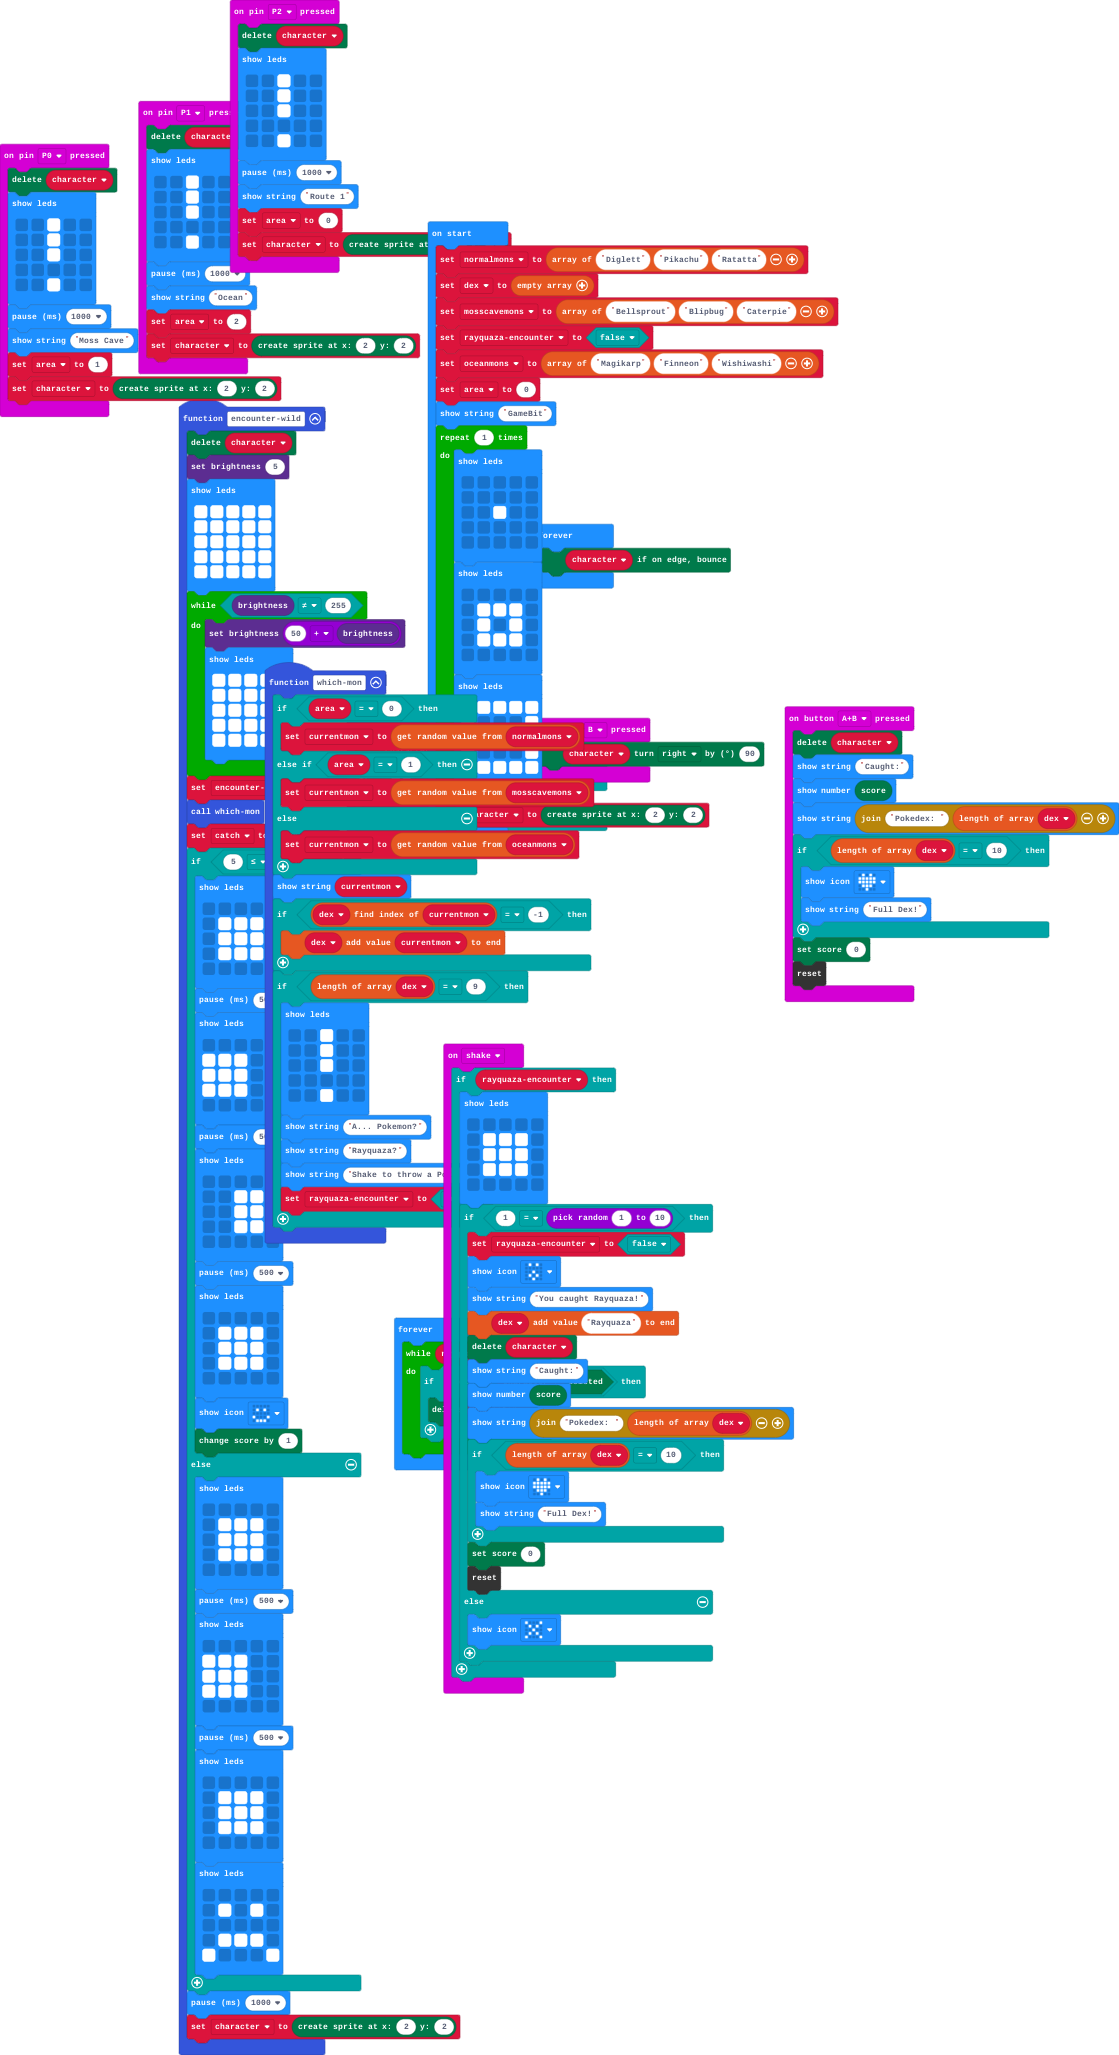
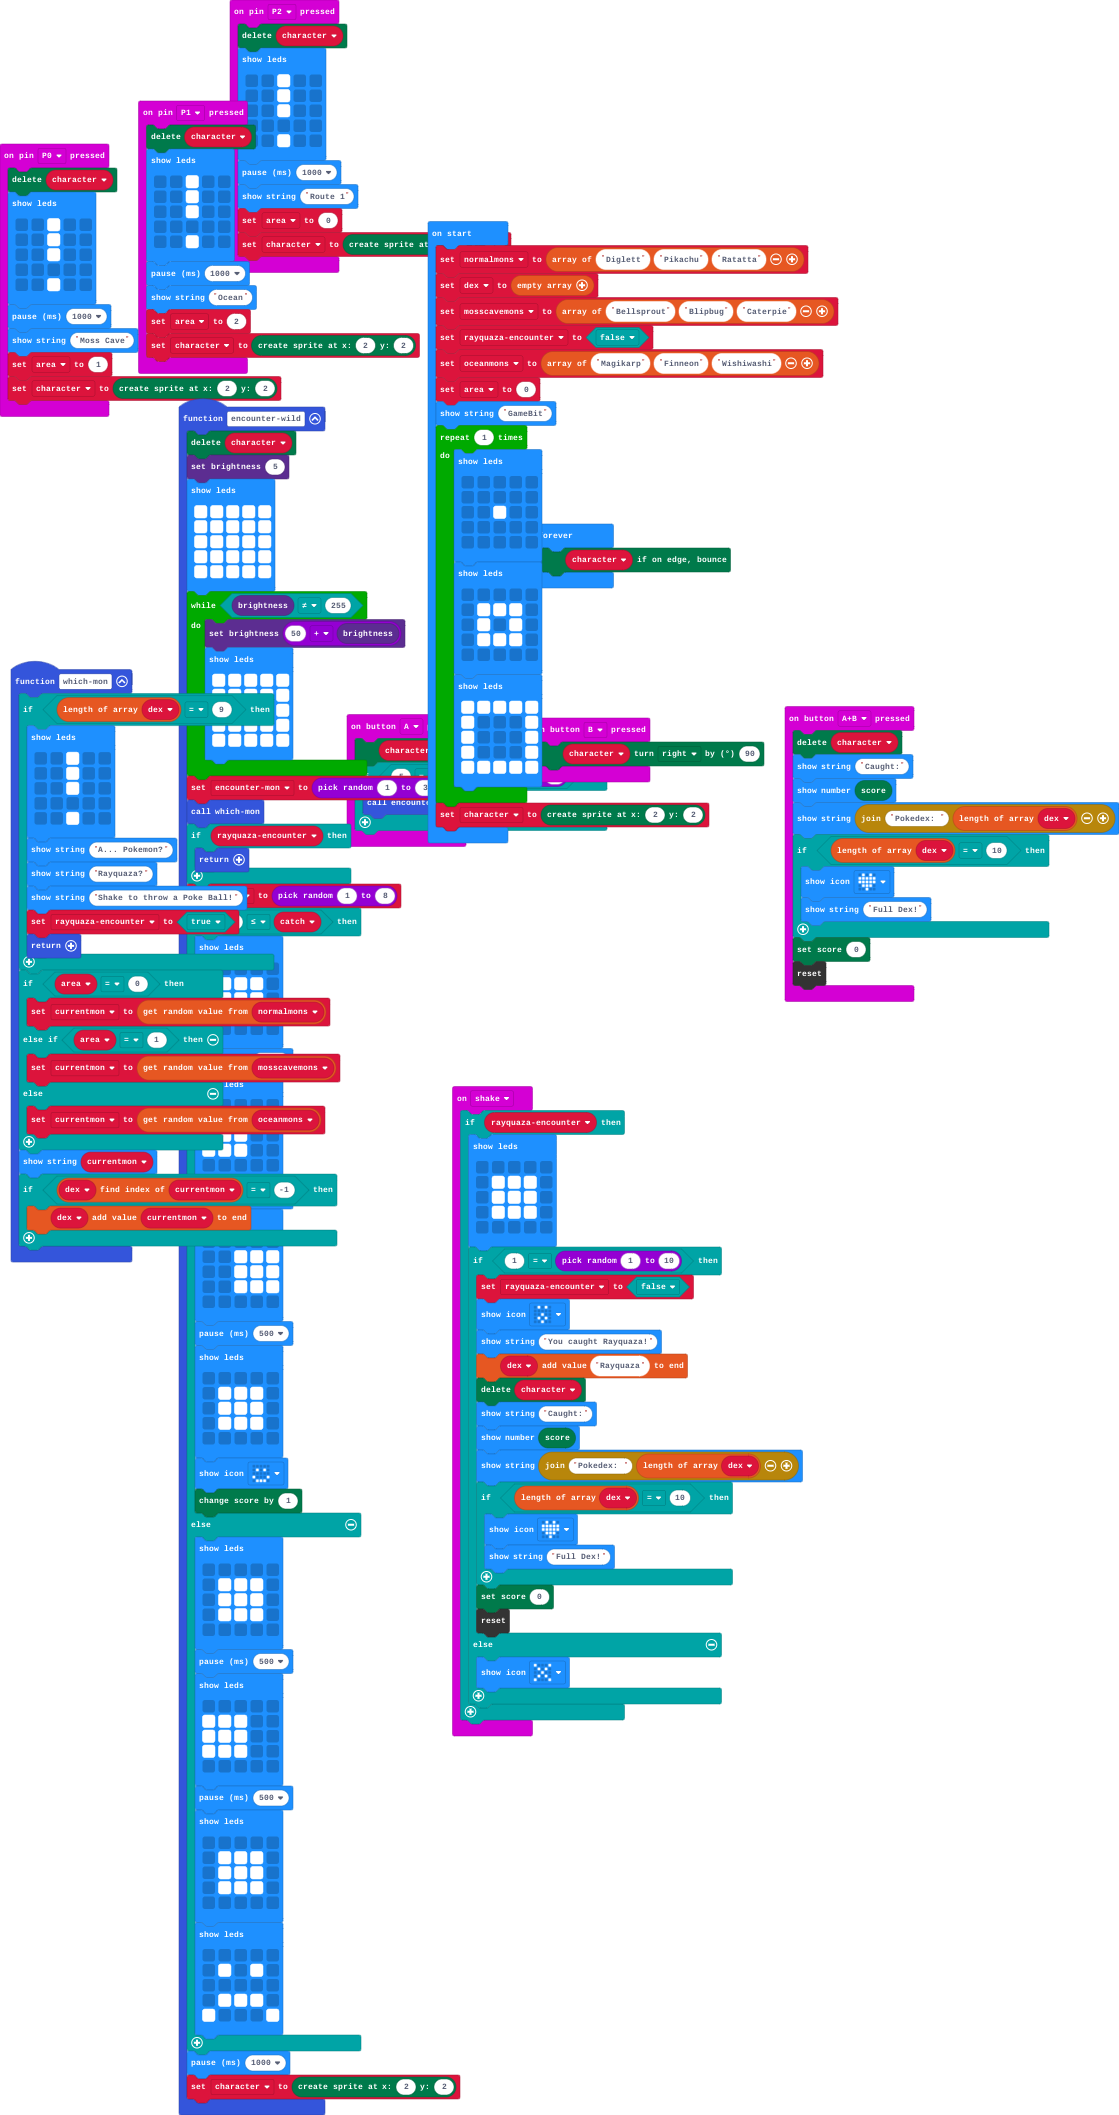
Generally improve the game

Changed region(s): [[0.0, 0.0, 1.0, 0.9966]]

diff --git a/main.ts b/main.ts
@@ -1,15 +1,4 @@
 function whichmon () {
-    if (area == 0) {
-        currentmon = normalmons._pickRandom()
-    } else if (area == 1) {
-        currentmon = mosscavemons._pickRandom()
-    } else {
-        currentmon = oceanmons._pickRandom()
-    }
-    basic.showString("" + (currentmon))
-    if (dex.indexOf(currentmon) == -1) {
-        dex.push(currentmon)
-    }
     if (dex.length == 9) {
         basic.showLeds(`
             . . # . .
@@ -22,6 +11,18 @@ function whichmon () {
         basic.showString("Rayquaza?")
         basic.showString("Shake to throw a Poke Ball!")
         rayquazaencounter = true
+        return
+    }
+    if (area == 0) {
+        currentmon = normalmons._pickRandom()
+    } else if (area == 1) {
+        currentmon = mosscavemons._pickRandom()
+    } else {
+        currentmon = oceanmons._pickRandom()
+    }
+    basic.showString("" + (currentmon))
+    if (dex.indexOf(currentmon) == -1) {
+        dex.push(currentmon)
     }
 }
 input.onPinPressed(TouchPin.P0, function () {
@@ -60,6 +61,9 @@ function encounterwild () {
     }
     encountermon = randint(1, 3)
     whichmon()
+    if (rayquazaencounter) {
+        return
+    }
     _catch = randint(1, 8)
     if (5 <= _catch) {
         basic.showLeds(`
@@ -251,11 +255,4 @@ for (let index = 0; index < 1; index++) {
 character = game.createSprite(2, 2)
 basic.forever(function () {
     character.ifOnEdgeBounce()
-})
-basic.forever(function () {
-    while (rayquazaencounter) {
-        if (!(character.isDeleted())) {
-            character.delete()
-        }
-    }
 })
